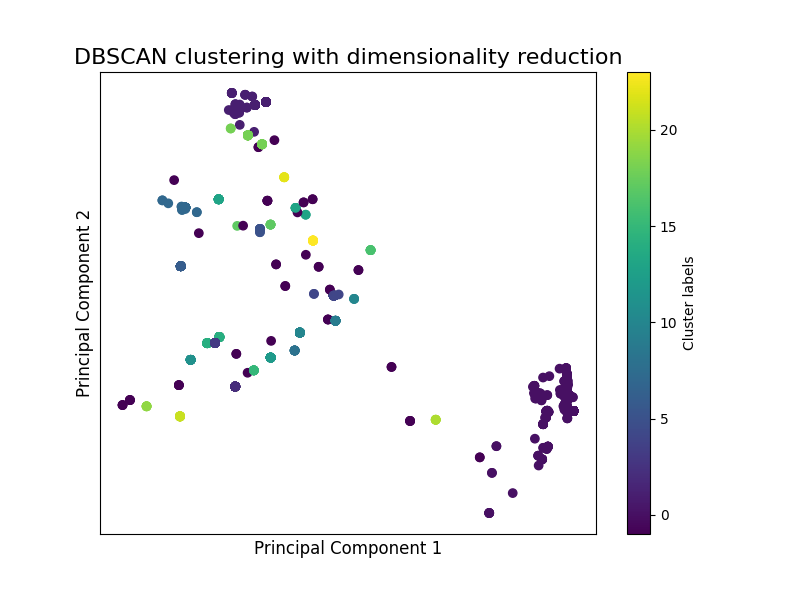
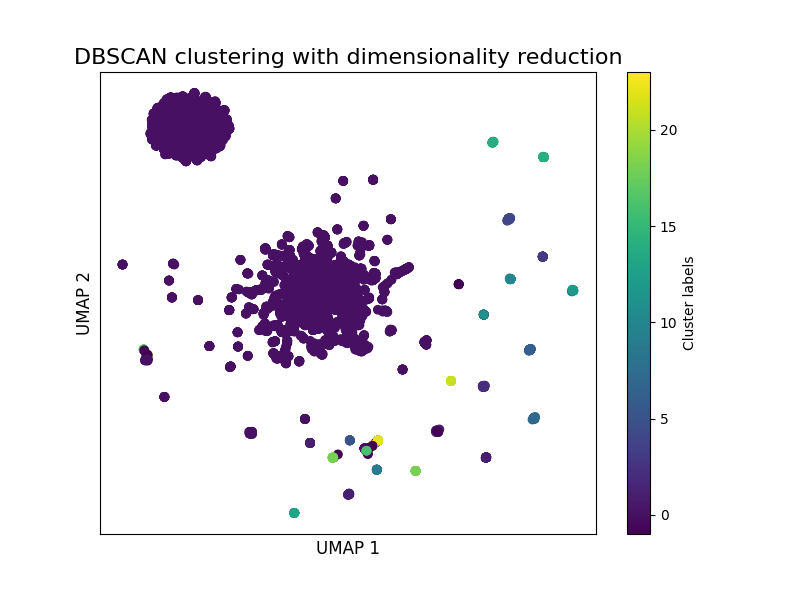
final commit.

diff --git a/data_clustering_pca_dbscan_nlp_tokenization.py b/data_clustering_pca_dbscan_nlp_tokenization.py
@@ -7,7 +7,7 @@ import pandas as pd
 import os
 import matplotlib.pyplot as plt
 from sklearn.cluster import DBSCAN
-from sklearn.decomposition import TruncatedSVD
+import umap
 from config import RESULT_PATH, DATA_PATH
 from typing import Tuple
 
@@ -87,17 +87,17 @@ def plot_dbscan(model: DBSCAN, data: np.array) -> None:
     :param data: The vectorized commands data
     :return: None. Save the plot to a png file
     """
-    # Reduce dimensions to 2D using TruncatedSVD, for memory efficiency
-    svd = TruncatedSVD(n_components=2)
-    reduced_data = svd.fit_transform(data)
+    # Reduce dimensions with UMAP:
+    reducer = umap.UMAP()
+    reduced_data = reducer.fit_transform(data)
     # Get labels
     labels = model.labels_
     # Create a scatter plot
     plt.figure(figsize=(8, 6))
     plt.scatter(reduced_data[:, 0], reduced_data[:, 1], c=labels, cmap='viridis')
     plt.title('DBSCAN clustering with dimensionality reduction', fontsize=16)
-    plt.xlabel('Principal Component 1', fontsize=12)
-    plt.ylabel('Principal Component 2', fontsize=12)
+    plt.xlabel('UMAP 1', fontsize=12)
+    plt.ylabel('UMAP 2', fontsize=12)
     # remove ticks, since it's not meaningful here
     plt.tick_params(axis='both', which='both', bottom=False, top=False, labelbottom=False, right=False, left=False,
                     labelleft=False)
